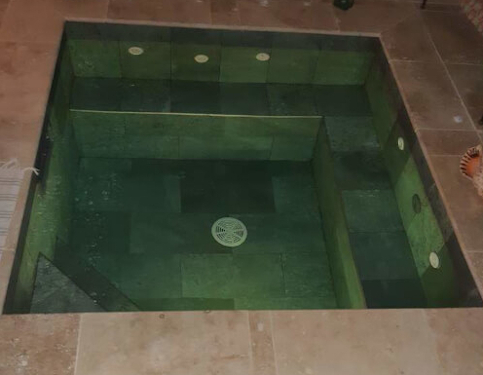
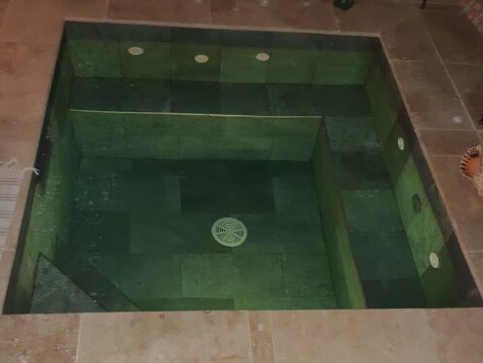
reglage du deuxieme carousel au niveau des photos

diff --git a/index.html b/index.html
@@ -132,7 +132,7 @@
                 <img class="mt-3 photos" src="images/slick-images/david-barry-maconnerie-fenetre.jpg" alt="david barry construction d'une extension de maison sur Aigues-Mortes ">
             </section>
 
-            <img src="images/barrow.png" alt="david barry maconnerie brouettetransportant du beton a aigues mortes">
+            <img src="images/barrow.png" alt="david barry maconnerie brouette transportant du beton a aigues mortes">
             <!-- deuxieme defilement d image -->
             <section class="text-center index-photos">
                 <p>
@@ -166,7 +166,9 @@
                         <path d="M0 14a2 2 0 0 0 2 2h12a2 2 0 0 0 2-2V2a2 2 0 0 0-2-2H2a2 2 0 0 0-2 2v12zm4.5-6.5h5.793L8.146 5.354a.5.5 0 1 1 .708-.708l3 3a.5.5 0 0 1 0 .708l-3 3a.5.5 0 0 1-.708-.708L10.293 8.5H4.5a.5.5 0 0 1 0-1z"/>
                     </svg>
                 </div>
-                <img class="mt-3 photos" src="images/realisations/david-barry-maconnerie-jacouzzi-lumiere-bleue.jpg" alt="david barry construction d'une extension de maison sur Aigues-Mortes ">
+                <p>
+                    <img class="pt-3" src="images/realisations/david-barry-maconnerie-jacouzzi-lumiere-bleue.jpg" alt="david barry construction d'une extension de maison sur Aigues-Mortes ">
+                </p>
             </section>
 
             <div class="scrolling_menu fw-bold rounded mt-5 text-dark  text-uppercase" id="banner">

diff --git a/style.scss b/style.scss
@@ -79,8 +79,8 @@ h2{
 
 .old{
     animation: run 3000ms ease-out ;
-
 }
+
 
 // menu defilant
 .scrolling_menu{
@@ -252,6 +252,7 @@ h2{
         & .photos{
             max-width:20rem;
             margin: 0!important;
+            
         }
         & svg{
             margin: 1rem;
